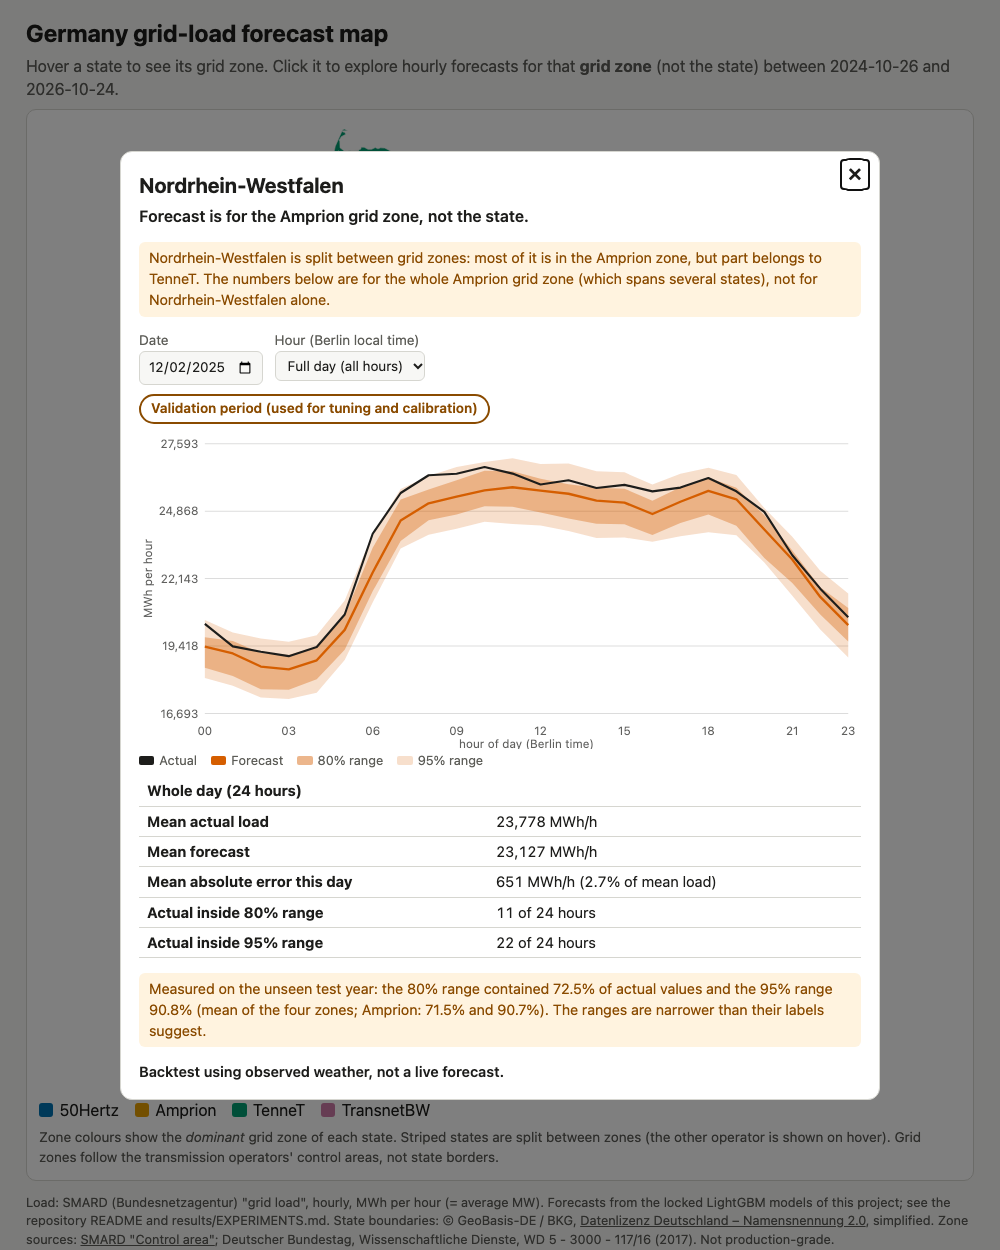
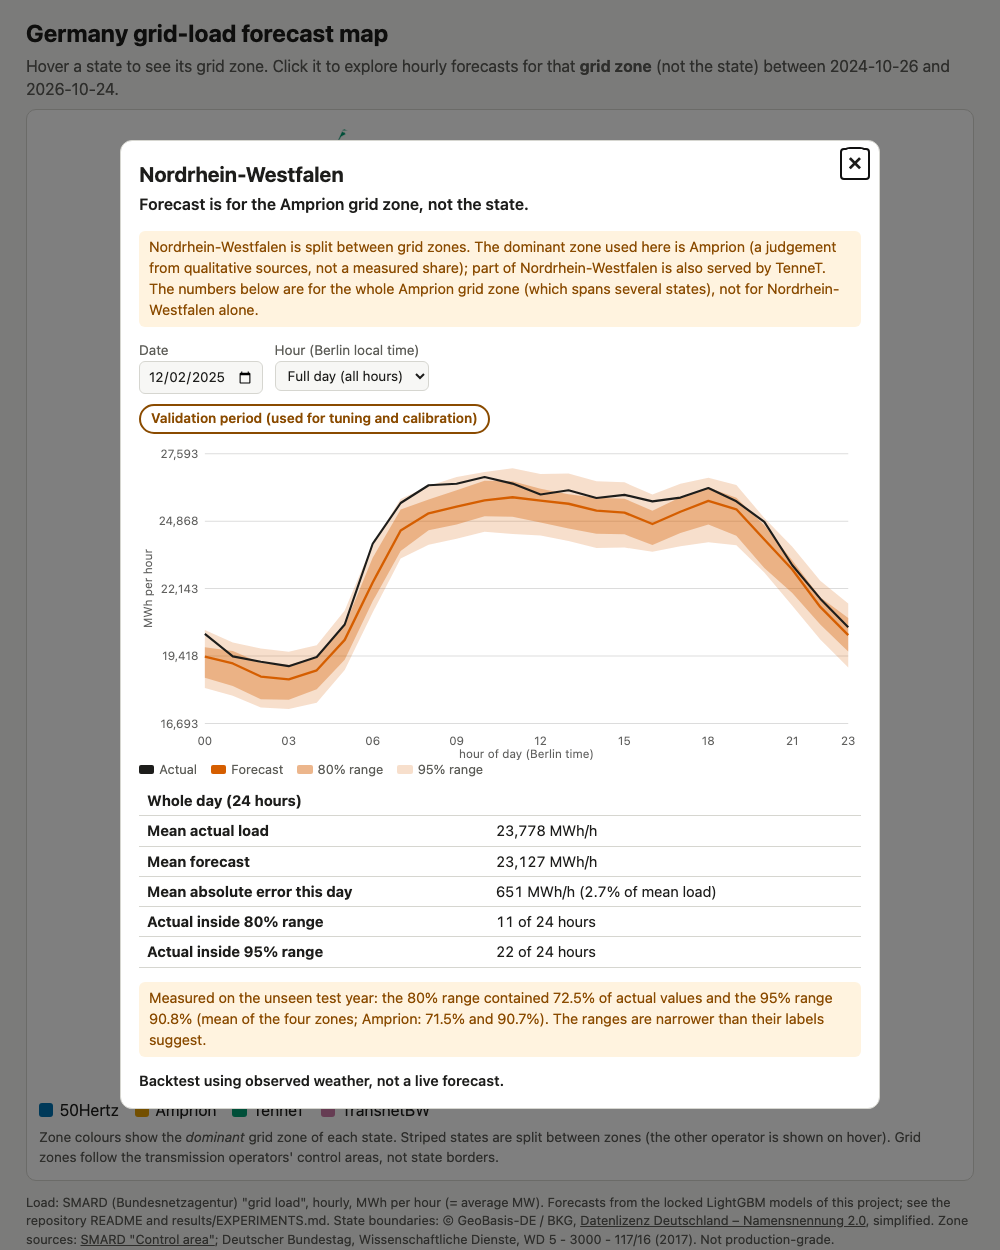
Fix 6: neutral split-state popup wording (no 'mostly'), Hessen/Frankfurt mismatch in limitations, correct two numbers, retake affected screenshots

diff --git a/site/app.js b/site/app.js
@@ -54,7 +54,7 @@ async function openPopup(p, date, hour) {
   $("pTitle").textContent = p.name;
   $("zoneStmt").textContent = `Forecast is for the ${zone} grid zone, not the state.`;
   const sp = $("splitStmt");
-  if (p.split) { sp.hidden = false; sp.textContent = `${p.name} is split between grid zones: most of it is in the ${zone} zone, but part belongs to ${p.also_served_by.join(" and ")}. The numbers below are for the whole ${zone} grid zone (which spans several states), not for ${p.name} alone.`; }
+  if (p.split) { sp.hidden = false; sp.textContent = `${p.name} is split between grid zones. The dominant zone used here is ${zone} (a judgement from qualitative sources, not a measured share); part of ${p.name} is also served by ${p.also_served_by.join(" and ")}. The numbers below are for the whole ${zone} grid zone (which spans several states), not for ${p.name} alone.`; }
   else sp.hidden = true;
   const d = $("date"); d.min = meta.first_full_local_day; d.max = meta.last_full_local_day;
   const want = date || d.value || "2026-01-14"; d.value = (want < d.min) ? d.min : (want > d.max ? d.max : want);

diff --git a/README.md b/README.md
@@ -41,14 +41,14 @@ Nominal vs observed coverage, mean over the four zones:
 | 80% | 58.0% | 80.0% | **72.5%** |
 | 95% | 78.4% | 94.2% | **90.8%** |
 
-So the intervals are **too narrow on new data**: calibration on one period does not transfer (only 50Hertz is near nominal on test: 78.9% / 94.4%). Coverage is worst around midday (80% band about 65-67% at 12-16 h on test) and over-covered at night. Plots: `results/figures/coverage.png`, example week `results/figures/fan_example.png`.
+So the intervals are **too narrow on new data**: calibration on one period does not transfer (only 50Hertz is near nominal on test: 78.9% / 94.4%). Coverage is worst around midday (80% band 64-67% at 12-16 h on test) and over-covered at night. Plots: `results/figures/coverage.png`, example week `results/figures/fan_example.png`.
 
 ## Stress tests (all inside train+validation; `scripts/stress_tests.py`, details in EXPERIMENTS.md)
 - **Rolling-origin backtest** (8 expanding-window folds: calendar years 2018-2023, 2024-01-01 to 2024-10-24, and the validation year): the model beats B1 in every window and zone.
 - **Holidays etc.**: lower error than B1 on every subset, but higher than its own average on Christmas-New Year (1.3-1.7x), public holidays (1.2-1.5x) and bridge days (1.2-1.8x). Heat waves are easier than average, cold snaps about average.
 - **Shift**: trained before 2020, evaluated 2020-22 without retraining: within 0-10% of the retrained model and far better than B1.
 - **Weather error** (noise levels are my assumptions, not measured forecast errors): +2-9% MAE at level 1, +15-32% at level 4 for three zones; TransnetBW is much more sensitive (+25% at level 1, +60% at level 4).
-- **Missing data** (no imputation): 30% missing weather hours cost about +12% (TransnetBW +31%). **Missing load history is the real weak spot**: 10% missing lags cost about +35-41%, 30% about +125-136%, and the model becomes worse than B1 in some zones.
+- **Missing data** (no imputation): 30% missing weather hours cost about +12% (TransnetBW +31%). **Missing load history is the real weak spot**: 10% missing lags cost about +35-41%, 30% about +125-136% (averages over the four zones; per zone the 10% case ranges from +19% for 50Hertz to +53% for Amprion), and the model becomes worse than B1 in some zones.
 
 ## Interactive map (`site/`)
 Plain HTML/JS/SVG, no libraries, no map tiles, no API keys. Serve and open:
@@ -71,6 +71,7 @@ Screenshots: ![overview](docs/screenshots/01_map_overview.png) ![test hour in a 
 - Patterns shift over time (the test year was harder than validation); the model is retrained only once, on data before 2024-10-25.
 - Holiday/bridge-day/heat statistics rest on few days; the stress-test noise levels are assumptions.
 - The model has not been compared with the TSOs' own forecasts, and nothing here shows that it beats them.
+- Hessen / Frankfurt mismatch: Hessen is assigned to TenneT (map and holiday share, `src/gepf/zones.py`, `src/gepf/data.py`), but one of Amprion's three weather points is Frankfurt, which lies in Hessen. So for Amprion the weather input includes a Hessen city while the holiday input does not include Hessen, and TenneT's holiday input includes Hessen while its weather points (Munich, Hannover, Nuremberg) do not. The holiday share also weights every state of a zone equally (Bayern counts as much as Bremen). Both are approximations, and I did not test their effect.
 - Map: a state is not a forecast target. The forecast is for the TSO grid zone, which does not follow state borders; five states are split between zones, and the dominant-zone choice rests on qualitative sources. The map is a backtest with observed weather and cannot show future dates.
 - Licence terms of the load and weather sources are not verified (see above); the BKG state-shape licence is the one stated by the service itself. Not production-grade.
 

diff --git a/results/EXPERIMENTS.md b/results/EXPERIMENTS.md
@@ -240,3 +240,10 @@ CLAUDE.md asks for "keep/revert rules written BEFORE seeing results" and a commi
 | R1 sealed-file reads | - | 8177c3e | - |
 | Audit fix 2 (tests, train_final --force, README) | - | 52bf65c | - |
 | Audit fix 4 (pinned requirements) | - | 6d1e03c | - |
+
+## C1 — Corrections to numbers in earlier entries (appended after the audit; earlier entries are NOT edited)
+Recomputed from the CSV files in results/:
+- S3 (weather noise, level x1), three zones other than TransnetBW: MAE rises by 1.7-8.7% (all four zones: 1.7-25%), not "3-10%" as written in the S3 results above. The README already says +2-9%. Source: results/stress_s3_s4.csv.
+- F1 coverage by hour: the 80% band covers 64.0-67.4% of test values at 12-16 h (mean over zones: 67.4, 66.6, 64.8, 64.0, 65.9%), not "0.65-0.67" as written in the F1 results above. The README now says 64-67%. Source: results/final_test_coverage_by_hour.csv.
+- S4 missing load history: the "+35-41%" (10% missing) and "+125-136%" (30%) are averages over zones; per zone the 10% case is +19% (50Hertz) to +53% (Amprion), the 30% case +61% to +191%. Source: results/stress_s3_s4.csv.
+- Popup wording: the split-state text no longer says that "most" of a state lies in its dominant zone, since no source gives shares (see the zone-assignment note in P7).
